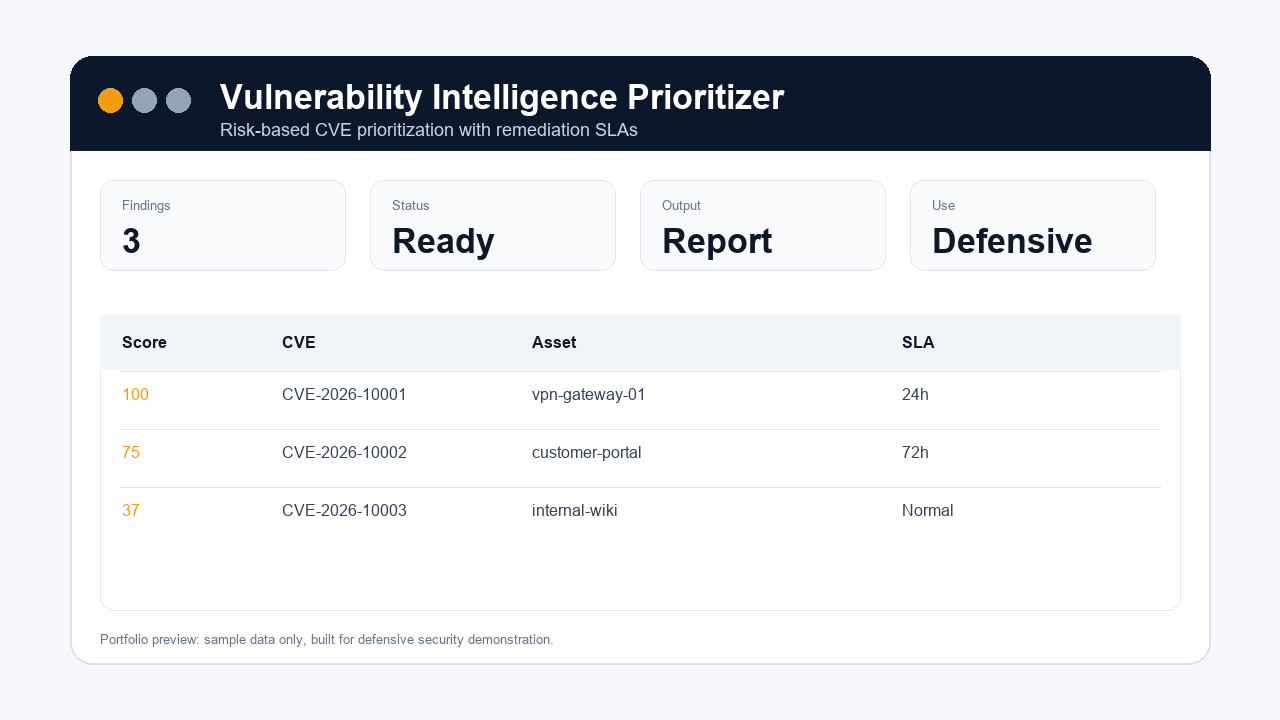
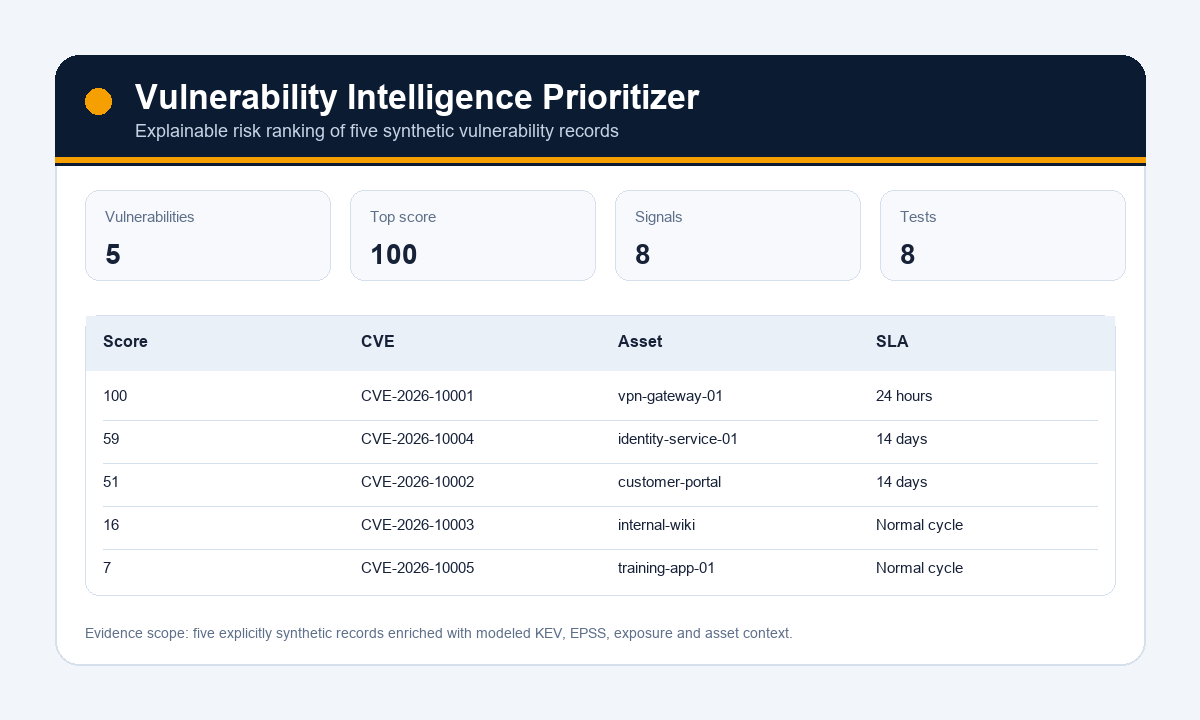
Add explainable vulnerability risk context

diff --git a/src/vuln_intel_prioritizer/core.py b/src/vuln_intel_prioritizer/core.py
@@ -14,11 +14,20 @@ class Vulnerability:
     asset_criticality: str
     affected_asset: str
     summary: str
+    epss: float = 0.0
+    kev_listed: bool = False
+    public_exploit: bool = False
+    fix_available: bool = True
+    compensating_control: bool = False
+    days_open: int = 0
+    data_source: str = "synthetic"
 
 
 def load_vulns(path: str | Path) -> list[Vulnerability]:
     rows = json.loads(Path(path).read_text(encoding="utf-8"))
-    return [
+    if not isinstance(rows, list):
+        raise ValueError("Vulnerability input must be a JSON array.")
+    vulns = [
         Vulnerability(
             cve=row["cve"],
             cvss=float(row["cvss"]),
@@ -27,9 +36,24 @@ def load_vulns(path: str | Path) -> list[Vulnerability]:
             asset_criticality=row["asset_criticality"],
             affected_asset=row["affected_asset"],
             summary=row["summary"],
+            epss=float(row.get("epss", 0.0)),
+            kev_listed=bool(row.get("kev_listed", row.get("exploited", False))),
+            public_exploit=bool(row.get("public_exploit", False)),
+            fix_available=bool(row.get("fix_available", True)),
+            compensating_control=bool(row.get("compensating_control", False)),
+            days_open=int(row.get("days_open", 0)),
+            data_source=str(row.get("data_source", "synthetic")),
         )
         for row in rows
     ]
+    for vuln in vulns:
+        if not 0 <= vuln.cvss <= 10:
+            raise ValueError(f"{vuln.cve}: CVSS must be between 0 and 10.")
+        if not 0 <= vuln.epss <= 1:
+            raise ValueError(f"{vuln.cve}: EPSS must be between 0 and 1.")
+        if vuln.asset_criticality not in {"low", "medium", "high", "critical"}:
+            raise ValueError(f"{vuln.cve}: unsupported asset criticality {vuln.asset_criticality}.")
+    return vulns
 
 
 def prioritize(vulns: list[Vulnerability]) -> list[dict[str, object]]:
@@ -38,36 +62,64 @@ def prioritize(vulns: list[Vulnerability]) -> list[dict[str, object]]:
 
 def write_report(items: list[dict[str, object]], path: str | Path) -> None:
     rows = "\n".join(
-        f"| {item['priority_score']} | {item['sla']} | {item['cve']} | {item['affected_asset']} | {item['reason']} |"
+        f"| {item['priority_score']} | {item['sla']} | {item['cve']} | {item['affected_asset']} | {item['reason']} | {item['data_source']} |"
         for item in items
     )
+    Path(path).parent.mkdir(parents=True, exist_ok=True)
     Path(path).write_text(
         f"""# Vulnerability Prioritization Report
 
-| Priority | SLA | CVE | Asset | Reason |
-| --- | --- | --- | --- | --- |
+| Priority | SLA | CVE | Asset | Reason | Source |
+| --- | --- | --- | --- | --- | --- |
 {rows}
 """,
         encoding="utf-8",
     )
 
 
+def write_json(items: list[dict[str, object]], path: str | Path) -> None:
+    Path(path).parent.mkdir(parents=True, exist_ok=True)
+    Path(path).write_text(json.dumps(items, indent=2), encoding="utf-8")
+
+
 def _rank(vuln: Vulnerability) -> dict[str, object]:
-    score = int(vuln.cvss * 7)
+    breakdown: dict[str, int] = {"cvss": int(vuln.cvss * 4)}
+    score = breakdown["cvss"]
     reasons = [f"CVSS {vuln.cvss}"]
-    if vuln.exploited:
+    if vuln.kev_listed or vuln.exploited:
+        breakdown["known_exploitation"] = 25
         score += 25
-        reasons.append("known exploited")
+        reasons.append("known exploited/KEV")
+    epss_points = round(vuln.epss * 15)
+    if epss_points:
+        breakdown["epss"] = epss_points
+        score += epss_points
+        reasons.append(f"EPSS {vuln.epss:.1%}")
+    if vuln.public_exploit:
+        breakdown["public_exploit"] = 10
+        score += 10
+        reasons.append("public exploit")
     if vuln.internet_exposed:
-        score += 15
+        breakdown["internet_exposure"] = 10
+        score += 10
         reasons.append("internet exposed")
     if vuln.asset_criticality == "critical":
-        score += 15
+        breakdown["asset_criticality"] = 10
+        score += 10
         reasons.append("critical asset")
     elif vuln.asset_criticality == "high":
-        score += 8
+        breakdown["asset_criticality"] = 6
+        score += 6
         reasons.append("high-value asset")
-    score = min(score, 100)
+    if vuln.days_open >= 30:
+        breakdown["age"] = 5
+        score += 5
+        reasons.append(f"open {vuln.days_open} days")
+    if vuln.compensating_control:
+        breakdown["compensating_control"] = -10
+        score -= 10
+        reasons.append("compensating control")
+    score = max(0, min(score, 100))
     return {
         "cve": vuln.cve,
         "affected_asset": vuln.affected_asset,
@@ -75,6 +127,10 @@ def _rank(vuln: Vulnerability) -> dict[str, object]:
         "sla": _sla(score),
         "reason": ", ".join(reasons),
         "summary": vuln.summary,
+        "score_breakdown": breakdown,
+        "fix_available": vuln.fix_available,
+        "recommended_action": "Patch" if vuln.fix_available else "Mitigate and monitor until a vendor fix is available",
+        "data_source": vuln.data_source,
     }
 
 

diff --git a/tests/test_core.py b/tests/test_core.py
@@ -1,19 +1,65 @@
 import unittest
+import json
+import tempfile
+from pathlib import Path
 
-from vuln_intel_prioritizer.core import Vulnerability, prioritize
+from vuln_intel_prioritizer.core import Vulnerability, load_vulns, prioritize, write_json, write_report
 
 
 class VulnPrioritizerTests(unittest.TestCase):
     def test_exploited_external_critical_asset_ranks_first(self):
         items = [
             Vulnerability("CVE-low", 6.0, False, False, "medium", "wiki", "lower risk"),
-            Vulnerability("CVE-high", 9.8, True, True, "critical", "vpn", "urgent"),
+            Vulnerability("CVE-high", 9.8, True, True, "critical", "vpn", "urgent", epss=0.9, kev_listed=True, public_exploit=True),
         ]
 
         ranked = prioritize(items)
 
         self.assertEqual(ranked[0]["cve"], "CVE-high")
         self.assertEqual(ranked[0]["priority_score"], 100)
+
+    def test_epss_and_kev_contribute_to_explainable_score(self):
+        item = prioritize([Vulnerability("CVE-x", 7.0, False, False, "medium", "host", "x", epss=0.8, kev_listed=True)])[0]
+        self.assertEqual(item["score_breakdown"]["known_exploitation"], 25)
+        self.assertEqual(item["score_breakdown"]["epss"], 12)
+
+    def test_compensating_control_reduces_priority(self):
+        base = Vulnerability("CVE-x", 8.0, False, True, "high", "host", "x")
+        controlled = Vulnerability("CVE-y", 8.0, False, True, "high", "host", "y", compensating_control=True)
+        ranked = {item["cve"]: item for item in prioritize([base, controlled])}
+        self.assertEqual(ranked["CVE-x"]["priority_score"] - ranked["CVE-y"]["priority_score"], 10)
+
+    def test_priority_score_never_becomes_negative(self):
+        item = prioritize([Vulnerability("CVE-x", 0.0, False, False, "low", "host", "x", compensating_control=True)])[0]
+        self.assertEqual(item["priority_score"], 0)
+
+    def test_no_fix_changes_recommended_action(self):
+        item = prioritize([Vulnerability("CVE-x", 8.0, False, False, "high", "host", "x", fix_available=False)])[0]
+        self.assertIn("Mitigate", item["recommended_action"])
+
+    def test_invalid_cvss_is_rejected(self):
+        with tempfile.TemporaryDirectory() as directory:
+            path = Path(directory) / "vulns.json"
+            path.write_text(json.dumps([{"cve": "CVE-x", "cvss": 11, "exploited": False, "internet_exposed": False, "asset_criticality": "low", "affected_asset": "x", "summary": "x"}]), encoding="utf-8")
+            with self.assertRaisesRegex(ValueError, "CVSS"):
+                load_vulns(path)
+
+    def test_sample_data_has_multiple_risk_contexts(self):
+        ranked = prioritize(load_vulns("sample_data/vulnerabilities.json"))
+        self.assertEqual(len(ranked), 5)
+        self.assertGreater(ranked[0]["priority_score"], ranked[-1]["priority_score"])
+
+    def test_markdown_and_json_reports_are_generated(self):
+        ranked = prioritize(load_vulns("sample_data/vulnerabilities.json"))
+        with tempfile.TemporaryDirectory() as directory:
+            markdown = Path(directory) / "report.md"
+            output_json = Path(directory) / "report.json"
+            write_report(ranked, markdown)
+            write_json(ranked, output_json)
+            parsed = json.loads(output_json.read_text(encoding="utf-8"))
+            report = markdown.read_text(encoding="utf-8")
+        self.assertEqual(len(parsed), 5)
+        self.assertIn("Source", report)
 
 
 if __name__ == "__main__":

diff --git a/src/vuln_intel_prioritizer/cli.py b/src/vuln_intel_prioritizer/cli.py
@@ -3,7 +3,7 @@ from __future__ import annotations
 import argparse
 from pathlib import Path
 
-from .core import load_vulns, prioritize, write_report
+from .core import load_vulns, prioritize, write_json, write_report
 
 
 ROOT = Path(__file__).resolve().parents[2]
@@ -13,13 +13,16 @@ def main() -> int:
     parser = argparse.ArgumentParser(description="Prioritize vulnerabilities by exploitability and business risk.")
     parser.add_argument("--vulns", default=str(ROOT / "sample_data" / "vulnerabilities.json"))
     parser.add_argument("--out", default="vulnerability_priorities.md")
+    parser.add_argument("--json", default="vulnerability_priorities.json")
     args = parser.parse_args()
 
     ranked = prioritize(load_vulns(args.vulns))
     write_report(ranked, args.out)
+    write_json(ranked, args.json)
     print(f"Prioritized {len(ranked)} vulnerabilities.")
     print(f"Top priority: {ranked[0]['cve']} ({ranked[0]['priority_score']})")
     print(f"Report: {args.out}")
+    print(f"JSON: {args.json}")
     return 0
 
 

diff --git a/docs/examples/example_vulnerability_priorities.md b/docs/examples/example_vulnerability_priorities.md
@@ -1,7 +1,9 @@
 # Vulnerability Prioritization Report
 
-| Priority | SLA | CVE | Asset | Reason |
-| --- | --- | --- | --- | --- |
-| 100 | Patch or mitigate within 24 hours | CVE-2026-10001 | vpn-gateway-01 | CVSS 9.8, known exploited, internet exposed, critical asset |
-| 75 | Patch within 72 hours | CVE-2026-10002 | customer-portal | CVSS 7.5, internet exposed, high-value asset |
-| 37 | Track in normal patch cycle | CVE-2026-10003 | internal-wiki | CVSS 5.3 |
+| Priority | SLA | CVE | Asset | Reason | Source |
+| --- | --- | --- | --- | --- | --- |
+| 100 | Patch or mitigate within 24 hours | CVE-2026-10001 | vpn-gateway-01 | CVSS 9.8, known exploited/KEV, EPSS 94.0%, public exploit, internet exposed, critical asset | synthetic KEV/EPSS-enriched lab record |
+| 59 | Patch within 14 days | CVE-2026-10004 | identity-service-01 | CVSS 8.1, EPSS 12.0%, public exploit, critical asset, open 35 days | synthetic red-team validation record |
+| 51 | Patch within 14 days | CVE-2026-10002 | customer-portal | CVSS 7.5, EPSS 31.0%, internet exposed, high-value asset | synthetic vulnerability scanner record |
+| 16 | Track in normal patch cycle | CVE-2026-10003 | internal-wiki | CVSS 5.3, open 45 days, compensating control | synthetic vulnerability scanner record |
+| 7 | Track in normal patch cycle | CVE-2026-10005 | training-app-01 | CVSS 4.3, compensating control | synthetic vulnerability scanner record |

diff --git a/README.md b/README.md
@@ -22,10 +22,11 @@ Real security teams cannot patch everything instantly. They need risk-based prio
 ## Features
 
 - Loads vulnerability data from JSON.
-- Combines CVSS, exploitation status, exposure, and asset criticality.
+- Combines CVSS, KEV/known exploitation, EPSS, public exploit availability, exposure, asset criticality, finding age, and compensating controls.
 - Produces a priority score.
+- Shows an explainable score breakdown and records the source of every input.
 - Assigns remediation SLAs.
-- Exports a Markdown report.
+- Exports Markdown and machine-readable JSON reports.
 - Includes tests and sample data.
 
 ## Example Report
@@ -49,6 +50,7 @@ python -m unittest discover -s tests -v
 - Vulnerability management
 - Risk scoring
 - Asset criticality modeling
+- KEV/EPSS enrichment modeling and compensating-control analysis
 - Python data processing
 - Security reporting
 